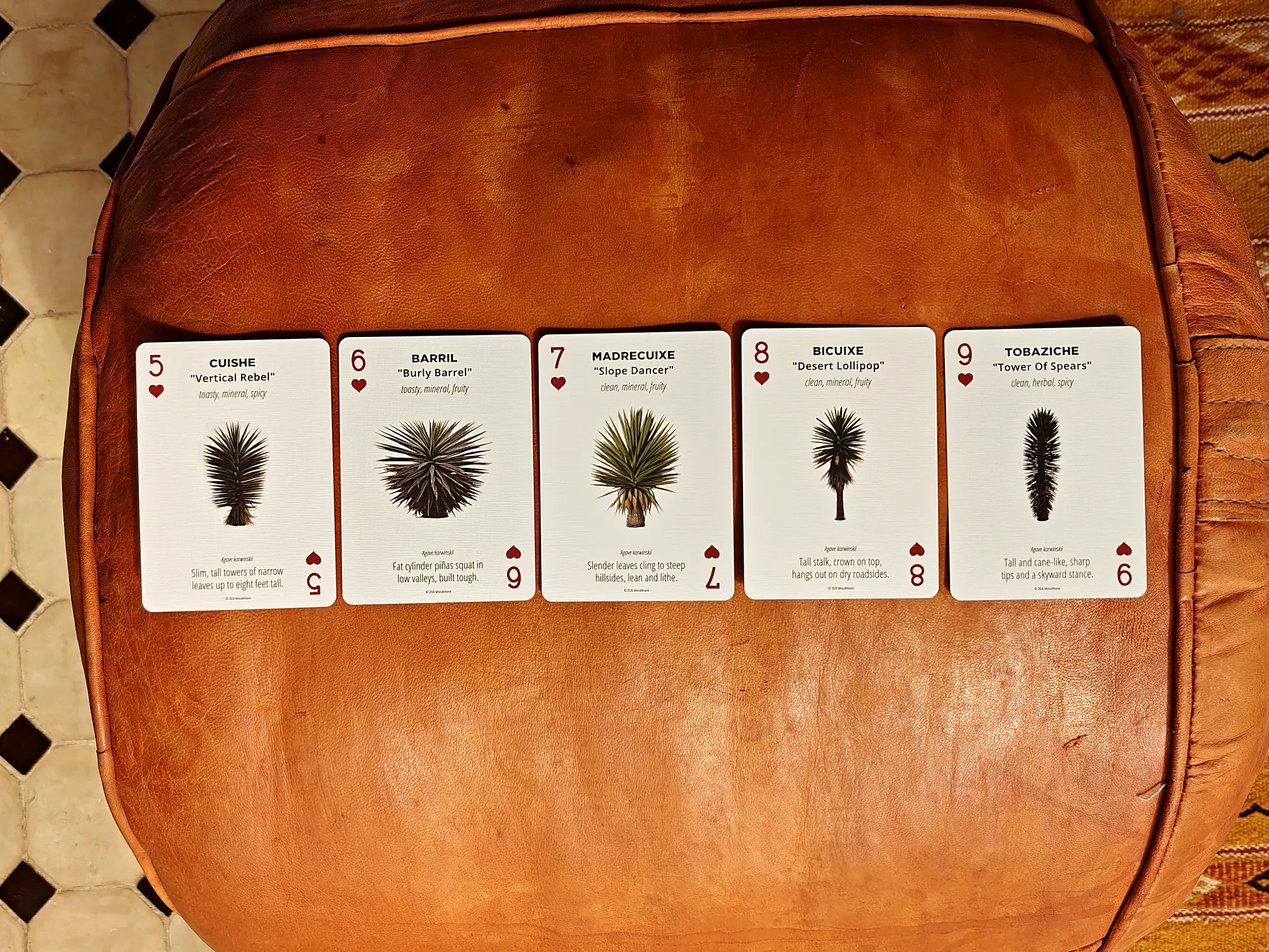
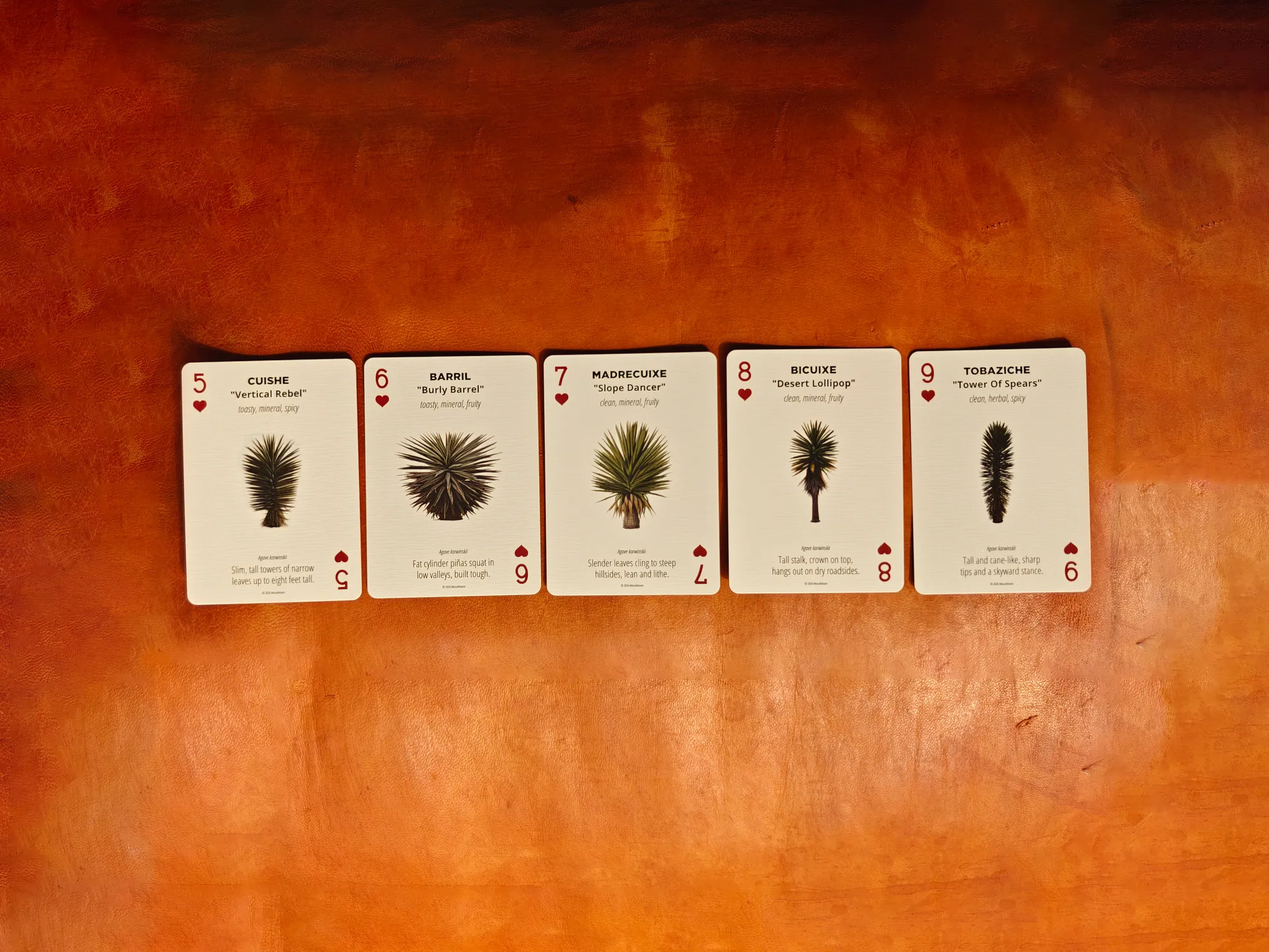
Small Pours: all leather background for the Karwinskii hero
Claude-Session: https://claude.ai/code/session_011WvomTJzN2cXfiHUh5WTuX

diff --git a/src/lib/small-pours/karwinskii-family-explained.ts b/src/lib/small-pours/karwinskii-family-explained.ts
@@ -11,7 +11,7 @@ export const karwinskiiFamilyExplained: PostEntry = {
     updated: "2026-11-08",
     image: {
       src: "/small-pours/karwinskii-family-explained-hero.webp",
-      alt: "The five karwinskii cards from the Discovery Deck in a row on a tan leather pouf: Cuishe, Barril, Madrecuixe, Bicuixe and Tobaziche.",
+      alt: "The five karwinskii cards from the Discovery Deck in a row on tan leather: Cuishe, Barril, Madrecuixe, Bicuixe and Tobaziche.",
       width: 2000,
       height: 1500
     },
